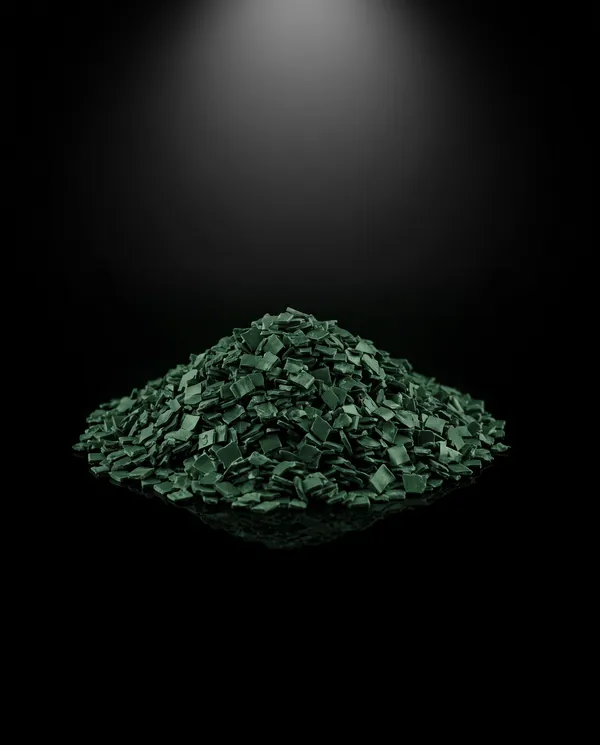
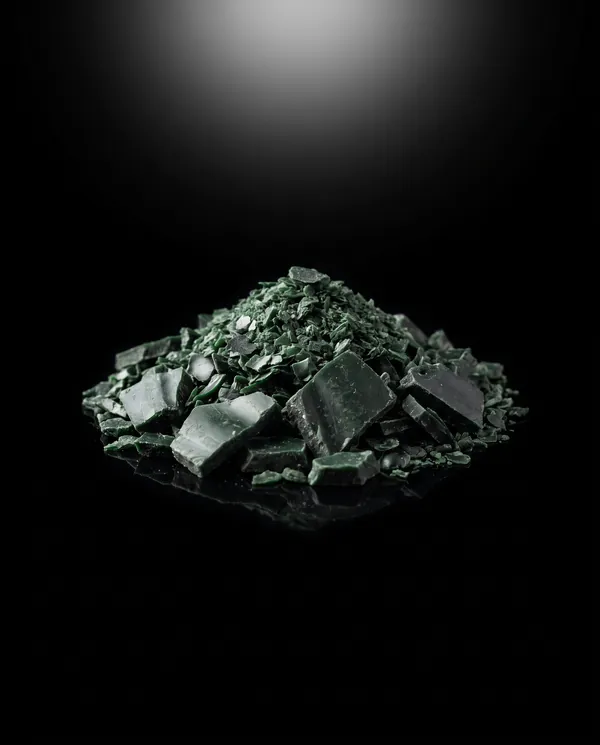
Home: cinematic North Geelong strip, real tank flake image, tidy strip heading
- New site scenes made from the real photos (forklift, bins, container, mattress line)
- Main-hall photo colour-graded to match; weak phone snapshots dropped
- Copy no longer claims the strip is real photographs; footer discloses it
- Generated green PE flake replaces the recoloured one

Claude-Session: https://claude.ai/code/session_01SsDq4EfS82ovqP3EFYruPY

Changed region(s): [[0.12, 0.1852, 0.87, 0.7409], [0.15, 0.0, 0.84, 0.1235], [0.39, 0.7101, 0.42, 0.7409]]

diff --git a/index.html b/index.html
@@ -21,7 +21,7 @@
 <link rel="apple-touch-icon" href="assets/img/touch-icon.png">
 <link rel="preload" href="assets/fonts/archivo.woff2" as="font" type="font/woff2" crossorigin>
 <link rel="preload" href="assets/fonts/inter.woff2" as="font" type="font/woff2" crossorigin>
-<link rel="preload" as="image" href="assets/img/a-hero-2400.webp" imagesrcset="assets/img/a-hero-1280.webp 1280w, assets/img/a-hero-2400.webp 2400w" imagesizes="100vw" media="(min-width: 701px)"><link rel="stylesheet" href="assets/site.css?v=2610131628">
+<link rel="preload" as="image" href="assets/img/a-hero-2400.webp" imagesrcset="assets/img/a-hero-1280.webp 1280w, assets/img/a-hero-2400.webp 2400w" imagesizes="100vw" media="(min-width: 701px)"><link rel="stylesheet" href="assets/site.css?v=2610131656">
 <script type="application/ld+json">{"@context":"https://schema.org","@type":"RecyclingCenter","name":"Eco Plastics","description":"Recycling for wheelie and commercial bins, bumper bars and car plastics, pallets, crates, milk crates, shopping baskets, IBCs, pallet wrap, poly pipe, tanks and plastic chairs.","url":"https://rdodeployme.github.io/eco-plastics/","telephone":"+61460555222","email":"info@recycle.net.au","image":"https://rdodeployme.github.io/eco-plastics/assets/img/og.jpg","address":{"@type":"PostalAddress","streetAddress":"116 Furner Avenue","addressLocality":"North Geelong","addressRegion":"VIC","postalCode":"3215","addressCountry":"AU"},"areaServed":["Sydney","Canberra","Adelaide","Geelong"],"parentOrganization":{"@type":"Organization","name":"Recycle Group","url":"https://recycle.net.au"}}</script>
 </head>
 <body>
@@ -270,31 +270,21 @@
       <p class="kicker" data-reveal>Our site</p>
       <h2 class="display h2" data-reveal>North Geelong.<br>Open and working.</h2>
     </div>
-    <p class="lede" data-reveal>Real photographs of the site where your plastic is recycled.</p>
+    <p class="lede" data-reveal>Inside the site where your plastic is recycled.</p>
     <a class="btn" href="our-site/" data-reveal>See our site <i aria-hidden="true">&rarr;</i></a>
   </div>
-  <div class="marquee" role="region" aria-label="Photographs of North Geelong">
+  <div class="marquee" role="region" aria-label="Scenes from North Geelong">
     <div class="marquee-track">
-      <figure><img src="assets/img/built-hero-1280.webp" width="1280" height="960" loading="lazy" alt="The main hall at Recycle North Geelong, signed bay by bay."><figcaption>The main hall, signed bay by bay.</figcaption></figure>
-      <figure><img src="assets/img/r-facility-1400.webp" width="1400" height="812" loading="lazy" alt="Signed drop-off bays for gas bottles, fire extinguishers and car batteries."><figcaption>Signed drop-off bays.</figcaption></figure>
-      <figure><img src="assets/img/r-forklift-bale-1200.webp" width="1200" height="1600" loading="lazy" alt="A forklift carrying a cardboard bale through the hall."><figcaption>A cardboard bale on the move.</figcaption></figure>
-      <figure><img src="assets/img/r-station-900.webp" width="900" height="522" loading="lazy" alt="A row of wheelie bins, each labelled for a different stream."><figcaption>Sorting bins, one per stream.</figcaption></figure>
-      <figure><img src="assets/img/r-mattress-line-900.webp" width="900" height="506" loading="lazy" alt="The mattress line, with a cage of recovered steel springs in front."><figcaption>The mattress line.</figcaption></figure>
-      <figure><img src="assets/img/r-unload-car-481.webp" width="481" height="640" loading="lazy" alt="Cars unloading in the undercover drive-through."><figcaption>Unloading, undercover.</figcaption></figure>
-      <figure><img src="assets/img/r-container-1200.webp" width="1200" height="675" loading="lazy" alt="A forklift loading baled steel into a shipping container."><figcaption>Baled steel going into a container.</figcaption></figure>
-      <figure><img src="assets/img/r-unload-trailer-481.webp" width="481" height="640" loading="lazy" alt="Two people unloading cardboard from a trailer."><figcaption>Trailer loads, unloaded by hand.</figcaption></figure>
-      <figure><img src="assets/img/r-cardboard-519.webp" width="519" height="812" loading="lazy" alt="Baled cardboard on a forklift in the hall."><figcaption>Baled cardboard.</figcaption></figure>
-      <figure><img src="assets/img/r-drive-in-480.webp" width="480" height="640" loading="lazy" alt="A car and trailer driving into the hall."><figcaption>The drive-in lane.</figcaption></figure>
-      <figure aria-hidden="true"><img src="assets/img/built-hero-1280.webp" width="1280" height="960" loading="lazy" alt=""><figcaption>The main hall, signed bay by bay.</figcaption></figure>
-      <figure aria-hidden="true"><img src="assets/img/r-facility-1400.webp" width="1400" height="812" loading="lazy" alt=""><figcaption>Signed drop-off bays.</figcaption></figure>
-      <figure aria-hidden="true"><img src="assets/img/r-forklift-bale-1200.webp" width="1200" height="1600" loading="lazy" alt=""><figcaption>A cardboard bale on the move.</figcaption></figure>
-      <figure aria-hidden="true"><img src="assets/img/r-station-900.webp" width="900" height="522" loading="lazy" alt=""><figcaption>Sorting bins, one per stream.</figcaption></figure>
-      <figure aria-hidden="true"><img src="assets/img/r-mattress-line-900.webp" width="900" height="506" loading="lazy" alt=""><figcaption>The mattress line.</figcaption></figure>
-      <figure aria-hidden="true"><img src="assets/img/r-unload-car-481.webp" width="481" height="640" loading="lazy" alt=""><figcaption>Unloading, undercover.</figcaption></figure>
-      <figure aria-hidden="true"><img src="assets/img/r-container-1200.webp" width="1200" height="675" loading="lazy" alt=""><figcaption>Baled steel going into a container.</figcaption></figure>
-      <figure aria-hidden="true"><img src="assets/img/r-unload-trailer-481.webp" width="481" height="640" loading="lazy" alt=""><figcaption>Trailer loads, unloaded by hand.</figcaption></figure>
-      <figure aria-hidden="true"><img src="assets/img/r-cardboard-519.webp" width="519" height="812" loading="lazy" alt=""><figcaption>Baled cardboard.</figcaption></figure>
-      <figure aria-hidden="true"><img src="assets/img/r-drive-in-480.webp" width="480" height="640" loading="lazy" alt=""><figcaption>The drive-in lane.</figcaption></figure>
+      <figure><img src="assets/img/s-hall.webp" width="1350" height="900" loading="lazy" alt="The main hall at North Geelong, with signed drop-off bays."><figcaption>The main hall, signed bay by bay.</figcaption></figure>
+      <figure><img src="assets/img/s-forklift.webp" width="720" height="900" loading="lazy" alt="Illustrative image: a forklift carrying a cardboard bale through the hall."><figcaption>A cardboard bale on the move.</figcaption></figure>
+      <figure><img src="assets/img/s-bins.webp" width="1350" height="900" loading="lazy" alt="Illustrative image: a row of wheelie bins, one per stream."><figcaption>Sorting bins, one per stream.</figcaption></figure>
+      <figure><img src="assets/img/s-container.webp" width="1350" height="900" loading="lazy" alt="Illustrative image: a forklift loading baled steel into a shipping container."><figcaption>Baled steel going into a container.</figcaption></figure>
+      <figure><img src="assets/img/s-mattress.webp" width="1350" height="900" loading="lazy" alt="Illustrative image: the mattress line, with a cage of recovered springs."><figcaption>The mattress line.</figcaption></figure>
+      <figure aria-hidden="true"><img src="assets/img/s-hall.webp" width="1350" height="900" loading="lazy" alt=""><figcaption>The main hall, signed bay by bay.</figcaption></figure>
+      <figure aria-hidden="true"><img src="assets/img/s-forklift.webp" width="720" height="900" loading="lazy" alt=""><figcaption>A cardboard bale on the move.</figcaption></figure>
+      <figure aria-hidden="true"><img src="assets/img/s-bins.webp" width="1350" height="900" loading="lazy" alt=""><figcaption>Sorting bins, one per stream.</figcaption></figure>
+      <figure aria-hidden="true"><img src="assets/img/s-container.webp" width="1350" height="900" loading="lazy" alt=""><figcaption>Baled steel going into a container.</figcaption></figure>
+      <figure aria-hidden="true"><img src="assets/img/s-mattress.webp" width="1350" height="900" loading="lazy" alt=""><figcaption>The mattress line.</figcaption></figure>
     </div>
   </div>
 </section>
@@ -359,10 +349,10 @@
       <li id="src-rome2rio">Approximate road distances to Geelong (Rome2Rio, October 2026)</li>
       <li id="src-density">Typical density ranges for PP, HDPE, PS, PET and PVC (industry reference values)</li>
     </ol>
-    <p><b>Imagery.</b> Studio images of the products we take, and of flake and baled film, are illustrative, as are the bin pile on the home page, the tip face and the wash tank. Photographs of North Geelong show the actual site. App screens are live captures.</p>
+    <p><b>Imagery.</b> Studio images of the products we take, and of flake and baled film, are illustrative, as are the bin pile on the home page, the tip face and the wash tank. On the home page, the main-hall view of North Geelong is a colour-graded photo and the other site scenes are AI images made from real photos of the site. The photographs on the Our site page are real. App screens are live captures.</p>
     <p>© 2026 Eco Plastics, a Recycle Group partnership. We don’t accept asbestos, prescribed waste, hazardous chemicals, firearms or explosives.</p>
   </div>
 </footer>
-<script src="assets/engine.js?v=2610131628" defer></script>
+<script src="assets/engine.js?v=2610131656" defer></script>
 </body>
 </html>

diff --git a/contact/index.html b/contact/index.html
@@ -21,7 +21,7 @@
 <link rel="apple-touch-icon" href="../assets/img/touch-icon.png">
 <link rel="preload" href="../assets/fonts/archivo.woff2" as="font" type="font/woff2" crossorigin>
 <link rel="preload" href="../assets/fonts/inter.woff2" as="font" type="font/woff2" crossorigin>
-<link rel="stylesheet" href="../assets/site.css?v=2610131628">
+<link rel="stylesheet" href="../assets/site.css?v=2610131656">
 <script type="application/ld+json">{"@context":"https://schema.org","@type":"RecyclingCenter","name":"Eco Plastics","description":"Recycling for wheelie and commercial bins, bumper bars and car plastics, pallets, crates, milk crates, shopping baskets, IBCs, pallet wrap, poly pipe, tanks and plastic chairs.","url":"https://rdodeployme.github.io/eco-plastics/","telephone":"+61460555222","email":"info@recycle.net.au","image":"https://rdodeployme.github.io/eco-plastics/assets/img/og.jpg","address":{"@type":"PostalAddress","streetAddress":"116 Furner Avenue","addressLocality":"North Geelong","addressRegion":"VIC","postalCode":"3215","addressCountry":"AU"},"areaServed":["Sydney","Canberra","Adelaide","Geelong"],"parentOrganization":{"@type":"Organization","name":"Recycle Group","url":"https://recycle.net.au"}}</script>
 </head>
 <body>
@@ -146,10 +146,10 @@
       <li id="src-rome2rio">Approximate road distances to Geelong (Rome2Rio, October 2026)</li>
       <li id="src-density">Typical density ranges for PP, HDPE, PS, PET and PVC (industry reference values)</li>
     </ol>
-    <p><b>Imagery.</b> Studio images of the products we take, and of flake and baled film, are illustrative, as are the bin pile on the home page, the tip face and the wash tank. Photographs of North Geelong show the actual site. App screens are live captures.</p>
+    <p><b>Imagery.</b> Studio images of the products we take, and of flake and baled film, are illustrative, as are the bin pile on the home page, the tip face and the wash tank. On the home page, the main-hall view of North Geelong is a colour-graded photo and the other site scenes are AI images made from real photos of the site. The photographs on the Our site page are real. App screens are live captures.</p>
     <p>© 2026 Eco Plastics, a Recycle Group partnership. We don’t accept asbestos, prescribed waste, hazardous chemicals, firearms or explosives.</p>
   </div>
 </footer>
-<script src="../assets/engine.js?v=2610131628" defer></script>
+<script src="../assets/engine.js?v=2610131656" defer></script>
 </body>
 </html>

diff --git a/404.html b/404.html
@@ -21,7 +21,7 @@
 <link rel="apple-touch-icon" href="/eco-plastics/assets/img/touch-icon.png">
 <link rel="preload" href="/eco-plastics/assets/fonts/archivo.woff2" as="font" type="font/woff2" crossorigin>
 <link rel="preload" href="/eco-plastics/assets/fonts/inter.woff2" as="font" type="font/woff2" crossorigin>
-<link rel="stylesheet" href="/eco-plastics/assets/site.css?v=2610131628">
+<link rel="stylesheet" href="/eco-plastics/assets/site.css?v=2610131656">
 </head>
 <body>
 <a class="skip" href="#main">Skip to content</a>
@@ -105,10 +105,10 @@
       <li id="src-rome2rio">Approximate road distances to Geelong (Rome2Rio, October 2026)</li>
       <li id="src-density">Typical density ranges for PP, HDPE, PS, PET and PVC (industry reference values)</li>
     </ol>
-    <p><b>Imagery.</b> Studio images of the products we take, and of flake and baled film, are illustrative, as are the bin pile on the home page, the tip face and the wash tank. Photographs of North Geelong show the actual site. App screens are live captures.</p>
+    <p><b>Imagery.</b> Studio images of the products we take, and of flake and baled film, are illustrative, as are the bin pile on the home page, the tip face and the wash tank. On the home page, the main-hall view of North Geelong is a colour-graded photo and the other site scenes are AI images made from real photos of the site. The photographs on the Our site page are real. App screens are live captures.</p>
     <p>© 2026 Eco Plastics, a Recycle Group partnership. We don’t accept asbestos, prescribed waste, hazardous chemicals, firearms or explosives.</p>
   </div>
 </footer>
-<script src="/eco-plastics/assets/engine.js?v=2610131628" defer></script>
+<script src="/eco-plastics/assets/engine.js?v=2610131656" defer></script>
 </body>
 </html>

diff --git a/bumper-bar-recycling/index.html b/bumper-bar-recycling/index.html
@@ -21,7 +21,7 @@
 <link rel="apple-touch-icon" href="../assets/img/touch-icon.png">
 <link rel="preload" href="../assets/fonts/archivo.woff2" as="font" type="font/woff2" crossorigin>
 <link rel="preload" href="../assets/fonts/inter.woff2" as="font" type="font/woff2" crossorigin>
-<link rel="stylesheet" href="../assets/site.css?v=2610131628">
+<link rel="stylesheet" href="../assets/site.css?v=2610131656">
 </head>
 <body>
 <a class="skip" href="#main">Skip to content</a>
@@ -205,10 +205,10 @@
       <li id="src-rome2rio">Approximate road distances to Geelong (Rome2Rio, October 2026)</li>
       <li id="src-density">Typical density ranges for PP, HDPE, PS, PET and PVC (industry reference values)</li>
     </ol>
-    <p><b>Imagery.</b> Studio images of the products we take, and of flake and baled film, are illustrative, as are the bin pile on the home page, the tip face and the wash tank. Photographs of North Geelong show the actual site. App screens are live captures.</p>
+    <p><b>Imagery.</b> Studio images of the products we take, and of flake and baled film, are illustrative, as are the bin pile on the home page, the tip face and the wash tank. On the home page, the main-hall view of North Geelong is a colour-graded photo and the other site scenes are AI images made from real photos of the site. The photographs on the Our site page are real. App screens are live captures.</p>
     <p>© 2026 Eco Plastics, a Recycle Group partnership. We don’t accept asbestos, prescribed waste, hazardous chemicals, firearms or explosives.</p>
   </div>
 </footer>
-<script src="../assets/engine.js?v=2610131628" defer></script>
+<script src="../assets/engine.js?v=2610131656" defer></script>
 </body>
 </html>

diff --git a/car-plastics-recycling/index.html b/car-plastics-recycling/index.html
@@ -21,7 +21,7 @@
 <link rel="apple-touch-icon" href="../assets/img/touch-icon.png">
 <link rel="preload" href="../assets/fonts/archivo.woff2" as="font" type="font/woff2" crossorigin>
 <link rel="preload" href="../assets/fonts/inter.woff2" as="font" type="font/woff2" crossorigin>
-<link rel="stylesheet" href="../assets/site.css?v=2610131628">
+<link rel="stylesheet" href="../assets/site.css?v=2610131656">
 </head>
 <body>
 <a class="skip" href="#main">Skip to content</a>
@@ -202,10 +202,10 @@
       <li id="src-rome2rio">Approximate road distances to Geelong (Rome2Rio, October 2026)</li>
       <li id="src-density">Typical density ranges for PP, HDPE, PS, PET and PVC (industry reference values)</li>
     </ol>
-    <p><b>Imagery.</b> Studio images of the products we take, and of flake and baled film, are illustrative, as are the bin pile on the home page, the tip face and the wash tank. Photographs of North Geelong show the actual site. App screens are live captures.</p>
+    <p><b>Imagery.</b> Studio images of the products we take, and of flake and baled film, are illustrative, as are the bin pile on the home page, the tip face and the wash tank. On the home page, the main-hall view of North Geelong is a colour-graded photo and the other site scenes are AI images made from real photos of the site. The photographs on the Our site page are real. App screens are live captures.</p>
     <p>© 2026 Eco Plastics, a Recycle Group partnership. We don’t accept asbestos, prescribed waste, hazardous chemicals, firearms or explosives.</p>
   </div>
 </footer>
-<script src="../assets/engine.js?v=2610131628" defer></script>
+<script src="../assets/engine.js?v=2610131656" defer></script>
 </body>
 </html>

diff --git a/commercial-bin-recycling/index.html b/commercial-bin-recycling/index.html
@@ -21,7 +21,7 @@
 <link rel="apple-touch-icon" href="../assets/img/touch-icon.png">
 <link rel="preload" href="../assets/fonts/archivo.woff2" as="font" type="font/woff2" crossorigin>
 <link rel="preload" href="../assets/fonts/inter.woff2" as="font" type="font/woff2" crossorigin>
-<link rel="stylesheet" href="../assets/site.css?v=2610131628">
+<link rel="stylesheet" href="../assets/site.css?v=2610131656">
 </head>
 <body>
 <a class="skip" href="#main">Skip to content</a>
@@ -205,10 +205,10 @@
       <li id="src-rome2rio">Approximate road distances to Geelong (Rome2Rio, October 2026)</li>
       <li id="src-density">Typical density ranges for PP, HDPE, PS, PET and PVC (industry reference values)</li>
     </ol>
-    <p><b>Imagery.</b> Studio images of the products we take, and of flake and baled film, are illustrative, as are the bin pile on the home page, the tip face and the wash tank. Photographs of North Geelong show the actual site. App screens are live captures.</p>
+    <p><b>Imagery.</b> Studio images of the products we take, and of flake and baled film, are illustrative, as are the bin pile on the home page, the tip face and the wash tank. On the home page, the main-hall view of North Geelong is a colour-graded photo and the other site scenes are AI images made from real photos of the site. The photographs on the Our site page are real. App screens are live captures.</p>
     <p>© 2026 Eco Plastics, a Recycle Group partnership. We don’t accept asbestos, prescribed waste, hazardous chemicals, firearms or explosives.</p>
   </div>
 </footer>
-<script src="../assets/engine.js?v=2610131628" defer></script>
+<script src="../assets/engine.js?v=2610131656" defer></script>
 </body>
 </html>

diff --git a/how-it-works/index.html b/how-it-works/index.html
@@ -21,7 +21,7 @@
 <link rel="apple-touch-icon" href="../assets/img/touch-icon.png">
 <link rel="preload" href="../assets/fonts/archivo.woff2" as="font" type="font/woff2" crossorigin>
 <link rel="preload" href="../assets/fonts/inter.woff2" as="font" type="font/woff2" crossorigin>
-<link rel="stylesheet" href="../assets/site.css?v=2610131628">
+<link rel="stylesheet" href="../assets/site.css?v=2610131656">
 </head>
 <body>
 <a class="skip" href="#main">Skip to content</a>
@@ -314,10 +314,10 @@
       <li id="src-rome2rio">Approximate road distances to Geelong (Rome2Rio, October 2026)</li>
       <li id="src-density">Typical density ranges for PP, HDPE, PS, PET and PVC (industry reference values)</li>
     </ol>
-    <p><b>Imagery.</b> Studio images of the products we take, and of flake and baled film, are illustrative, as are the bin pile on the home page, the tip face and the wash tank. Photographs of North Geelong show the actual site. App screens are live captures.</p>
+    <p><b>Imagery.</b> Studio images of the products we take, and of flake and baled film, are illustrative, as are the bin pile on the home page, the tip face and the wash tank. On the home page, the main-hall view of North Geelong is a colour-graded photo and the other site scenes are AI images made from real photos of the site. The photographs on the Our site page are real. App screens are live captures.</p>
     <p>© 2026 Eco Plastics, a Recycle Group partnership. We don’t accept asbestos, prescribed waste, hazardous chemicals, firearms or explosives.</p>
   </div>
 </footer>
-<script src="../assets/engine.js?v=2610131628" defer></script>
+<script src="../assets/engine.js?v=2610131656" defer></script>
 </body>
 </html>

diff --git a/ibc-recycling/index.html b/ibc-recycling/index.html
@@ -21,7 +21,7 @@
 <link rel="apple-touch-icon" href="../assets/img/touch-icon.png">
 <link rel="preload" href="../assets/fonts/archivo.woff2" as="font" type="font/woff2" crossorigin>
 <link rel="preload" href="../assets/fonts/inter.woff2" as="font" type="font/woff2" crossorigin>
-<link rel="stylesheet" href="../assets/site.css?v=2610131628">
+<link rel="stylesheet" href="../assets/site.css?v=2610131656">
 </head>
 <body>
 <a class="skip" href="#main">Skip to content</a>
@@ -205,10 +205,10 @@
       <li id="src-rome2rio">Approximate road distances to Geelong (Rome2Rio, October 2026)</li>
       <li id="src-density">Typical density ranges for PP, HDPE, PS, PET and PVC (industry reference values)</li>
     </ol>
-    <p><b>Imagery.</b> Studio images of the products we take, and of flake and baled film, are illustrative, as are the bin pile on the home page, the tip face and the wash tank. Photographs of North Geelong show the actual site. App screens are live captures.</p>
+    <p><b>Imagery.</b> Studio images of the products we take, and of flake and baled film, are illustrative, as are the bin pile on the home page, the tip face and the wash tank. On the home page, the main-hall view of North Geelong is a colour-graded photo and the other site scenes are AI images made from real photos of the site. The photographs on the Our site page are real. App screens are live captures.</p>
     <p>© 2026 Eco Plastics, a Recycle Group partnership. We don’t accept asbestos, prescribed waste, hazardous chemicals, firearms or explosives.</p>
   </div>
 </footer>
-<script src="../assets/engine.js?v=2610131628" defer></script>
+<script src="../assets/engine.js?v=2610131656" defer></script>
 </body>
 </html>

diff --git a/milk-crate-recycling/index.html b/milk-crate-recycling/index.html
@@ -21,7 +21,7 @@
 <link rel="apple-touch-icon" href="../assets/img/touch-icon.png">
 <link rel="preload" href="../assets/fonts/archivo.woff2" as="font" type="font/woff2" crossorigin>
 <link rel="preload" href="../assets/fonts/inter.woff2" as="font" type="font/woff2" crossorigin>
-<link rel="stylesheet" href="../assets/site.css?v=2610131628">
+<link rel="stylesheet" href="../assets/site.css?v=2610131656">
 </head>
 <body>
 <a class="skip" href="#main">Skip to content</a>
@@ -205,10 +205,10 @@
       <li id="src-rome2rio">Approximate road distances to Geelong (Rome2Rio, October 2026)</li>
       <li id="src-density">Typical density ranges for PP, HDPE, PS, PET and PVC (industry reference values)</li>
     </ol>
-    <p><b>Imagery.</b> Studio images of the products we take, and of flake and baled film, are illustrative, as are the bin pile on the home page, the tip face and the wash tank. Photographs of North Geelong show the actual site. App screens are live captures.</p>
+    <p><b>Imagery.</b> Studio images of the products we take, and of flake and baled film, are illustrative, as are the bin pile on the home page, the tip face and the wash tank. On the home page, the main-hall view of North Geelong is a colour-graded photo and the other site scenes are AI images made from real photos of the site. The photographs on the Our site page are real. App screens are live captures.</p>
     <p>© 2026 Eco Plastics, a Recycle Group partnership. We don’t accept asbestos, prescribed waste, hazardous chemicals, firearms or explosives.</p>
   </div>
 </footer>
-<script src="../assets/engine.js?v=2610131628" defer></script>
+<script src="../assets/engine.js?v=2610131656" defer></script>
 </body>
 </html>

diff --git a/our-site/index.html b/our-site/index.html
@@ -21,7 +21,7 @@
 <link rel="apple-touch-icon" href="../assets/img/touch-icon.png">
 <link rel="preload" href="../assets/fonts/archivo.woff2" as="font" type="font/woff2" crossorigin>
 <link rel="preload" href="../assets/fonts/inter.woff2" as="font" type="font/woff2" crossorigin>
-<link rel="stylesheet" href="../assets/site.css?v=2610131628">
+<link rel="stylesheet" href="../assets/site.css?v=2610131656">
 </head>
 <body>
 <a class="skip" href="#main">Skip to content</a>
@@ -251,10 +251,10 @@
       <li id="src-rome2rio">Approximate road distances to Geelong (Rome2Rio, October 2026)</li>
       <li id="src-density">Typical density ranges for PP, HDPE, PS, PET and PVC (industry reference values)</li>
     </ol>
-    <p><b>Imagery.</b> Studio images of the products we take, and of flake and baled film, are illustrative, as are the bin pile on the home page, the tip face and the wash tank. Photographs of North Geelong show the actual site. App screens are live captures.</p>
+    <p><b>Imagery.</b> Studio images of the products we take, and of flake and baled film, are illustrative, as are the bin pile on the home page, the tip face and the wash tank. On the home page, the main-hall view of North Geelong is a colour-graded photo and the other site scenes are AI images made from real photos of the site. The photographs on the Our site page are real. App screens are live captures.</p>
     <p>© 2026 Eco Plastics, a Recycle Group partnership. We don’t accept asbestos, prescribed waste, hazardous chemicals, firearms or explosives.</p>
   </div>
 </footer>
-<script src="../assets/engine.js?v=2610131628" defer></script>
+<script src="../assets/engine.js?v=2610131656" defer></script>
 </body>
 </html>

diff --git a/pallet-wrap-recycling/index.html b/pallet-wrap-recycling/index.html
@@ -21,7 +21,7 @@
 <link rel="apple-touch-icon" href="../assets/img/touch-icon.png">
 <link rel="preload" href="../assets/fonts/archivo.woff2" as="font" type="font/woff2" crossorigin>
 <link rel="preload" href="../assets/fonts/inter.woff2" as="font" type="font/woff2" crossorigin>
-<link rel="stylesheet" href="../assets/site.css?v=2610131628">
+<link rel="stylesheet" href="../assets/site.css?v=2610131656">
 </head>
 <body>
 <a class="skip" href="#main">Skip to content</a>
@@ -198,10 +198,10 @@
       <li id="src-rome2rio">Approximate road distances to Geelong (Rome2Rio, October 2026)</li>
       <li id="src-density">Typical density ranges for PP, HDPE, PS, PET and PVC (industry reference values)</li>
     </ol>
-    <p><b>Imagery.</b> Studio images of the products we take, and of flake and baled film, are illustrative, as are the bin pile on the home page, the tip face and the wash tank. Photographs of North Geelong show the actual site. App screens are live captures.</p>
+    <p><b>Imagery.</b> Studio images of the products we take, and of flake and baled film, are illustrative, as are the bin pile on the home page, the tip face and the wash tank. On the home page, the main-hall view of North Geelong is a colour-graded photo and the other site scenes are AI images made from real photos of the site. The photographs on the Our site page are real. App screens are live captures.</p>
     <p>© 2026 Eco Plastics, a Recycle Group partnership. We don’t accept asbestos, prescribed waste, hazardous chemicals, firearms or explosives.</p>
   </div>
 </footer>
-<script src="../assets/engine.js?v=2610131628" defer></script>
+<script src="../assets/engine.js?v=2610131656" defer></script>
 </body>
 </html>

diff --git a/plastic-chair-recycling/index.html b/plastic-chair-recycling/index.html
@@ -21,7 +21,7 @@
 <link rel="apple-touch-icon" href="../assets/img/touch-icon.png">
 <link rel="preload" href="../assets/fonts/archivo.woff2" as="font" type="font/woff2" crossorigin>
 <link rel="preload" href="../assets/fonts/inter.woff2" as="font" type="font/woff2" crossorigin>
-<link rel="stylesheet" href="../assets/site.css?v=2610131628">
+<link rel="stylesheet" href="../assets/site.css?v=2610131656">
 </head>
 <body>
 <a class="skip" href="#main">Skip to content</a>
@@ -203,10 +203,10 @@
       <li id="src-rome2rio">Approximate road distances to Geelong (Rome2Rio, October 2026)</li>
       <li id="src-density">Typical density ranges for PP, HDPE, PS, PET and PVC (industry reference values)</li>
     </ol>
-    <p><b>Imagery.</b> Studio images of the products we take, and of flake and baled film, are illustrative, as are the bin pile on the home page, the tip face and the wash tank. Photographs of North Geelong show the actual site. App screens are live captures.</p>
+    <p><b>Imagery.</b> Studio images of the products we take, and of flake and baled film, are illustrative, as are the bin pile on the home page, the tip face and the wash tank. On the home page, the main-hall view of North Geelong is a colour-graded photo and the other site scenes are AI images made from real photos of the site. The photographs on the Our site page are real. App screens are live captures.</p>
     <p>© 2026 Eco Plastics, a Recycle Group partnership. We don’t accept asbestos, prescribed waste, hazardous chemicals, firearms or explosives.</p>
   </div>
 </footer>
-<script src="../assets/engine.js?v=2610131628" defer></script>
+<script src="../assets/engine.js?v=2610131656" defer></script>
 </body>
 </html>
